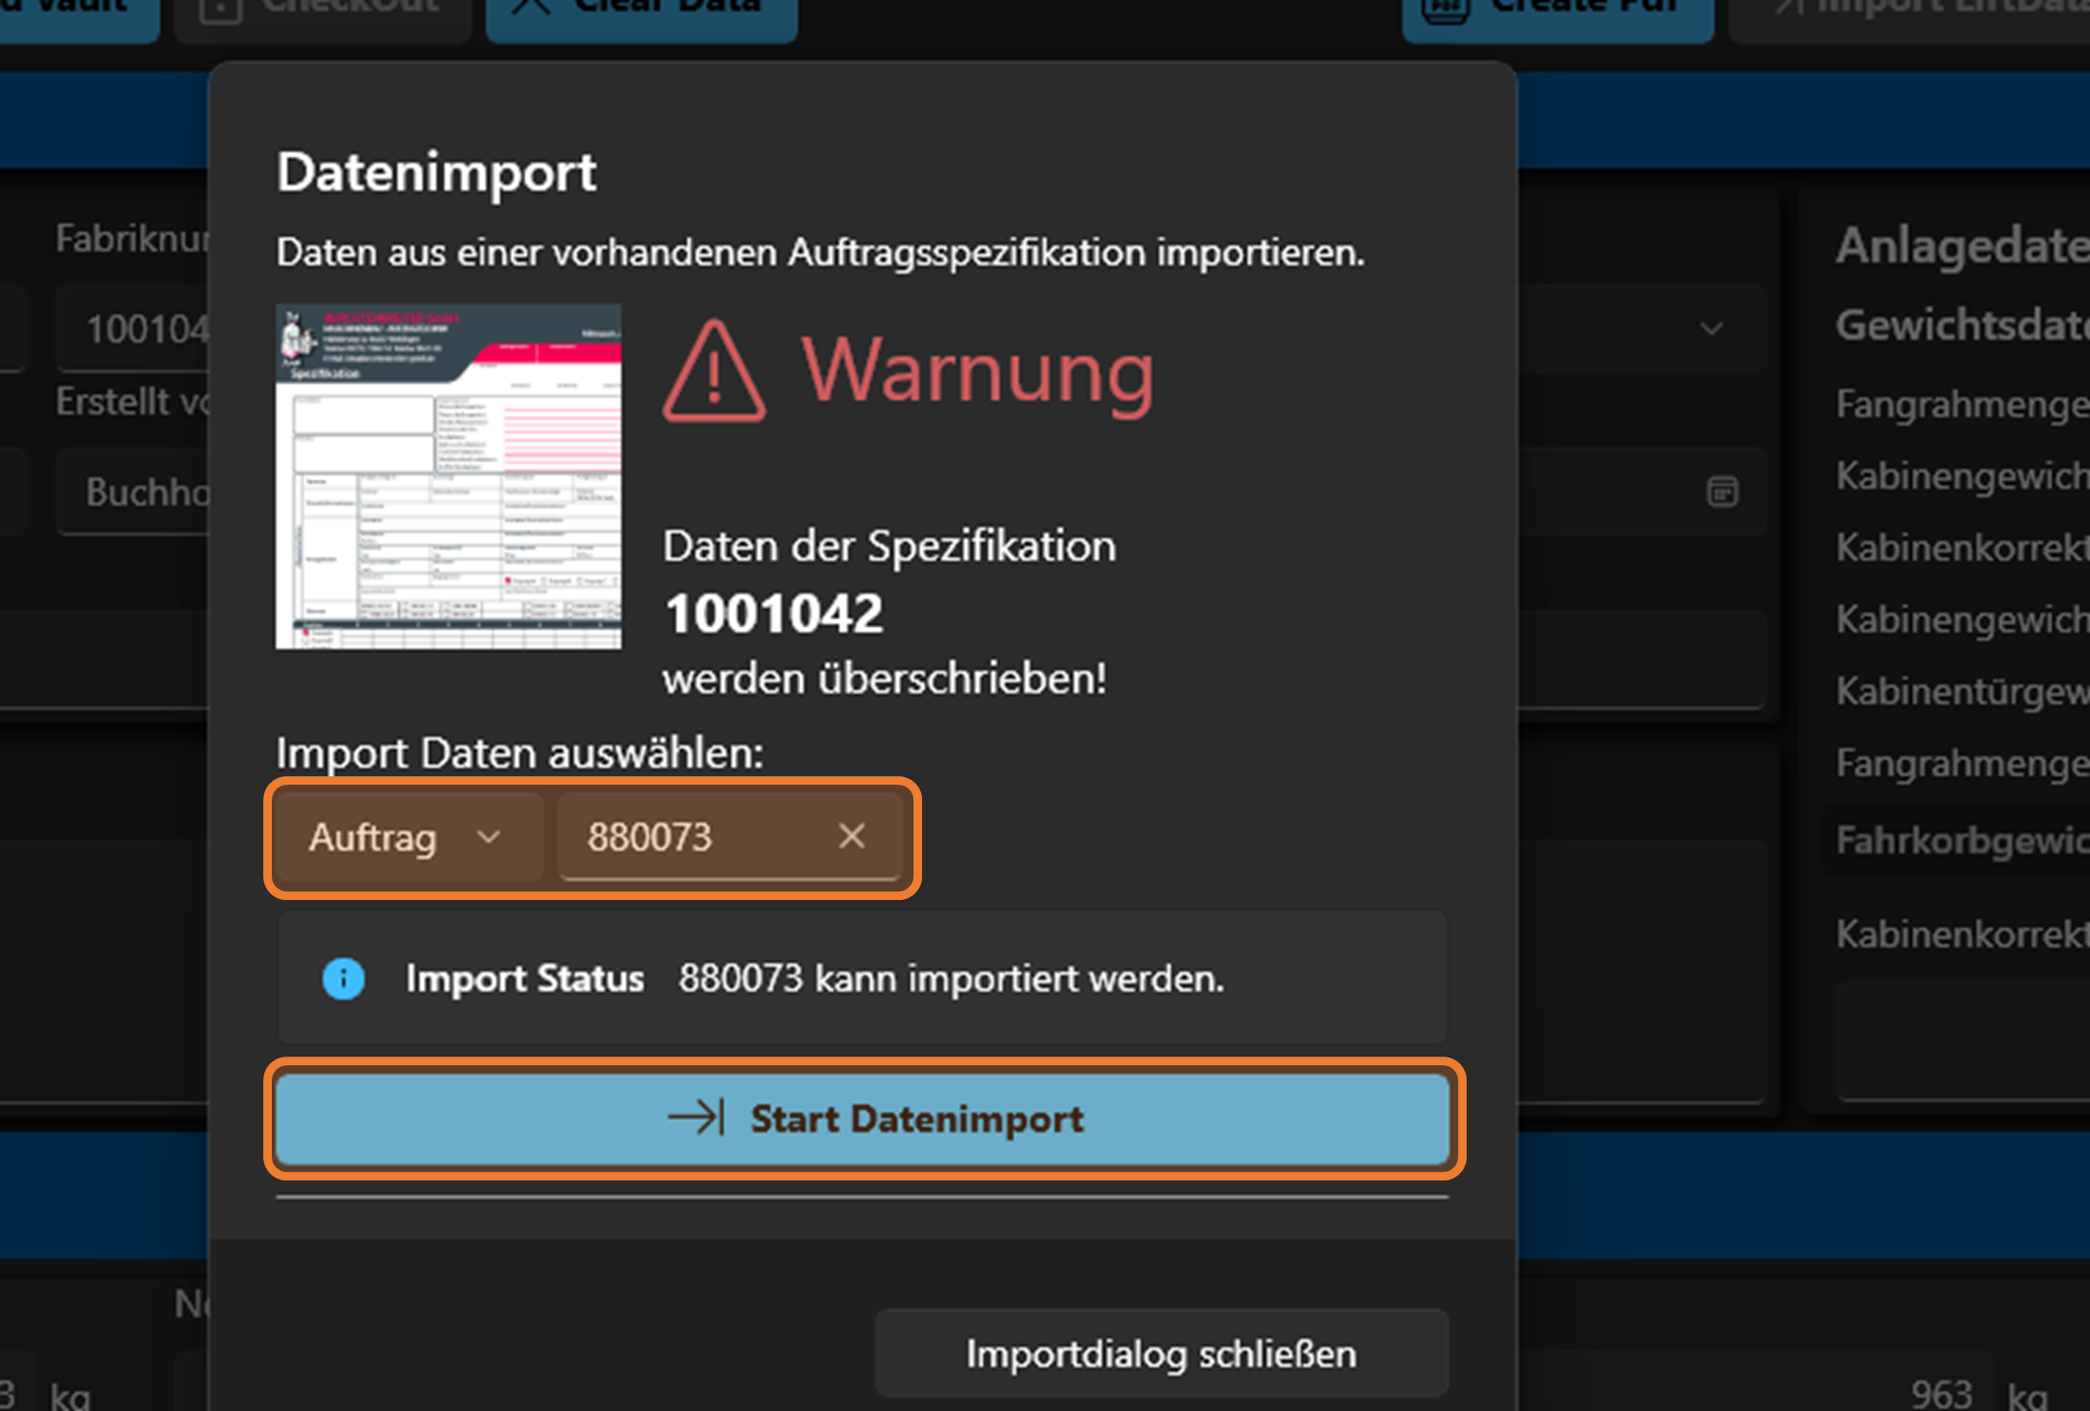
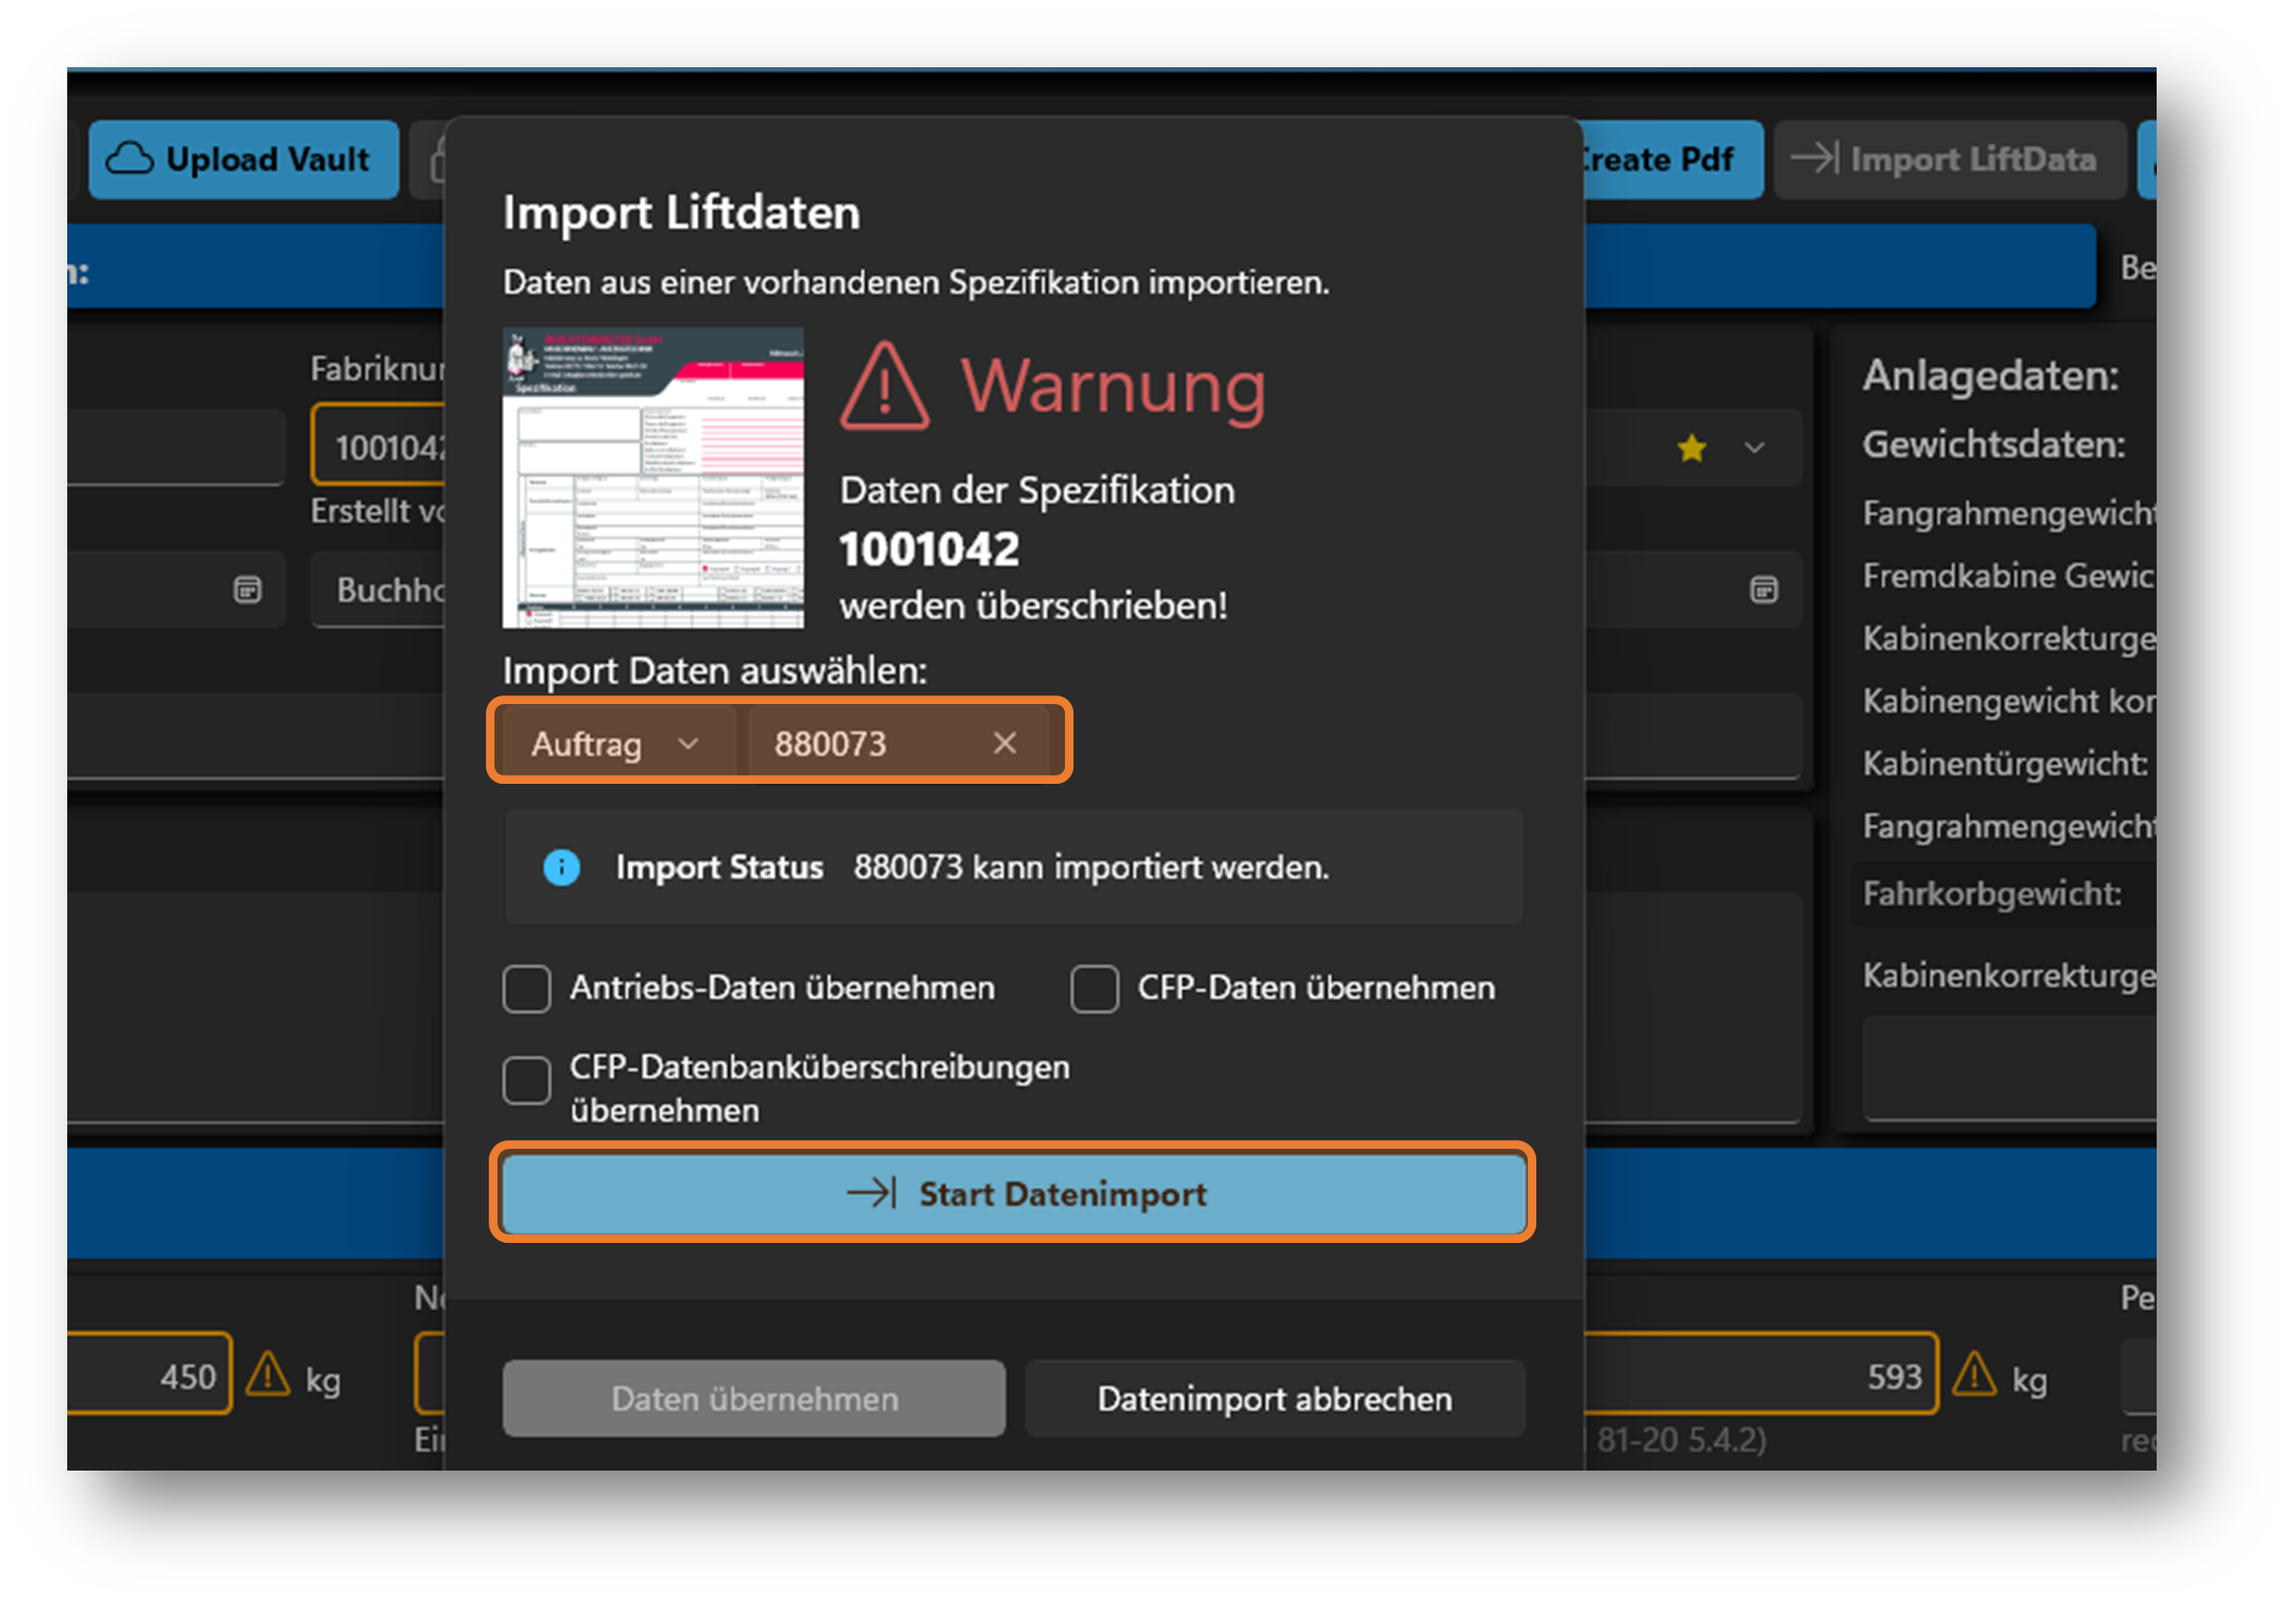
update LDM help

diff --git a/LiftDataManager.Core/Services/ParameterDataService.cs b/LiftDataManager.Core/Services/ParameterDataService.cs
@@ -615,6 +615,7 @@ public partial class ParameterDataService : IParameterDataService
             {
                 _logger.LogWarning(61001, "Saving failed {Name} >Saving is only possible in adminmode<", parameter.Name);
                 saveResult.Add(new Tuple<string, string, string?>("Error", "Error", $"Parameter: {parameter.Name} ist scheibgeschützt!\nSpeichern nur im Adminmode möglich!"));
+                parameter.IsDirty = false;
             }
         }
         await AddParameterListToHistoryAsync(historyEntrys, path, false);
@@ -893,6 +894,7 @@ public partial class ParameterDataService : IParameterDataService
             }
         }
     }
+    
     /// <inheritdoc/>
     public async Task StopAutoSaveTimerAsync()
     {

diff --git a/LiftDataManager/ViewModels/Dialogs/ImportLiftDataDialogViewModel.cs b/LiftDataManager/ViewModels/Dialogs/ImportLiftDataDialogViewModel.cs
@@ -167,9 +167,11 @@ public partial class ImportLiftDataDialogViewModel : ObservableObject
     public partial string? SelectedImportCarFrame { get; set; }
 
     [ObservableProperty]
-    public partial bool ImportDriveData { get; set; } = true;
+    public partial bool ImportDriveData { get; set; }
+
     [ObservableProperty]
-    public partial bool ImportCFPData { get; set; } = true;
+    public partial bool ImportCFPData { get; set; }
+
     [ObservableProperty]
     public partial bool ImportCFPDataBaseOverrides { get; set; }
 

diff --git a/LiftDataManager/Docs/de/05-Benutzeroberfläche/01-Home Ansicht/02-Navigationsmenü/Navigationsmenü.md b/LiftDataManager/Docs/de/05-Benutzeroberfläche/01-Home Ansicht/02-Navigationsmenü/Navigationsmenü.md
@@ -26,19 +26,23 @@
 
 > Komplette Änderungshistorie der Aufzugsanlage
 
-## 7.Datenbank editieren
+## 7.Schindler Abkürzungen
+
+> Es steht eine Schindler Abkürzungsdatenbank mit Suchfunktion zur Verfügung
+
+## 8.Datenbank editieren
 
 > Im Admin Modus kann hier die Datendank bearbeitet werden
 
-## 8.Quicklinks
+## 9.Quicklinks
 
 > Schnelle Links zu dem meist benötigen Unterlagen und Ordner
 
-## 9.Hilfe
+## 10.Hilfe
 
 > Link zur Hilfe
 
-## 10.Einstellungen
+## 11.Einstellungen
 
 > Allgemeine Einstellungen, Farben und Aussehen, Wartung und About  
 

diff --git a/LiftDataManager/Docs/de/04-Datenimport/01-Spezifikations Import/Spezifikations Import.md b/LiftDataManager/Docs/de/04-Datenimport/01-Spezifikations Import/Spezifikations Import.md
@@ -2,7 +2,8 @@
 
 ![image](/LiftDataManager/Docs/HelpImages/image33.png)  
 
->Nach der Eingabe einer gültigen Auftragsnummer wird der Button **„Start Datenimport“** aktiv und Import kann durch klicken des Buttons gestartet werden.  
+>Nach der Eingabe einer gültigen Auftragsnummer wird der Button **„Start Datenimport“** aktiv und Import kann durch klicken des Buttons gestartet werden.
+>Es ist möglich **Antriebsdaten**, **CFP-Daten** und **CFP-Datenbankanpassungen** zu übernehmen.
 
 ![image](/LiftDataManager/Docs/HelpImages/image34.png)  
 

diff --git a/LiftDataManager/Docs/de/05-Benutzeroberfläche/06-Schindler Abkürzungsdatenbank/Schindler Abkürzungsdatenbank.md b/LiftDataManager/Docs/de/05-Benutzeroberfläche/06-Schindler Abkürzungsdatenbank/Schindler Abkürzungsdatenbank.md
@@ -1,0 +1,8 @@
+# Schindler Abkürzungsdatenbank
+
+![image](/LiftDataManager/Docs/HelpImages/image195.png)  
+
+>Es steht eine Schindler-Abkürzungsdatenbank **(1)** mit Suchfunktion **(2)** zur Verfügung
+Aktuell befinden sich 1447 Schindler Abkürzungen **(3)** in der Datenbank.
+
+[//]: # (Tags: Schindler Abkürzungsdatenbank | Abkürzungen)  
